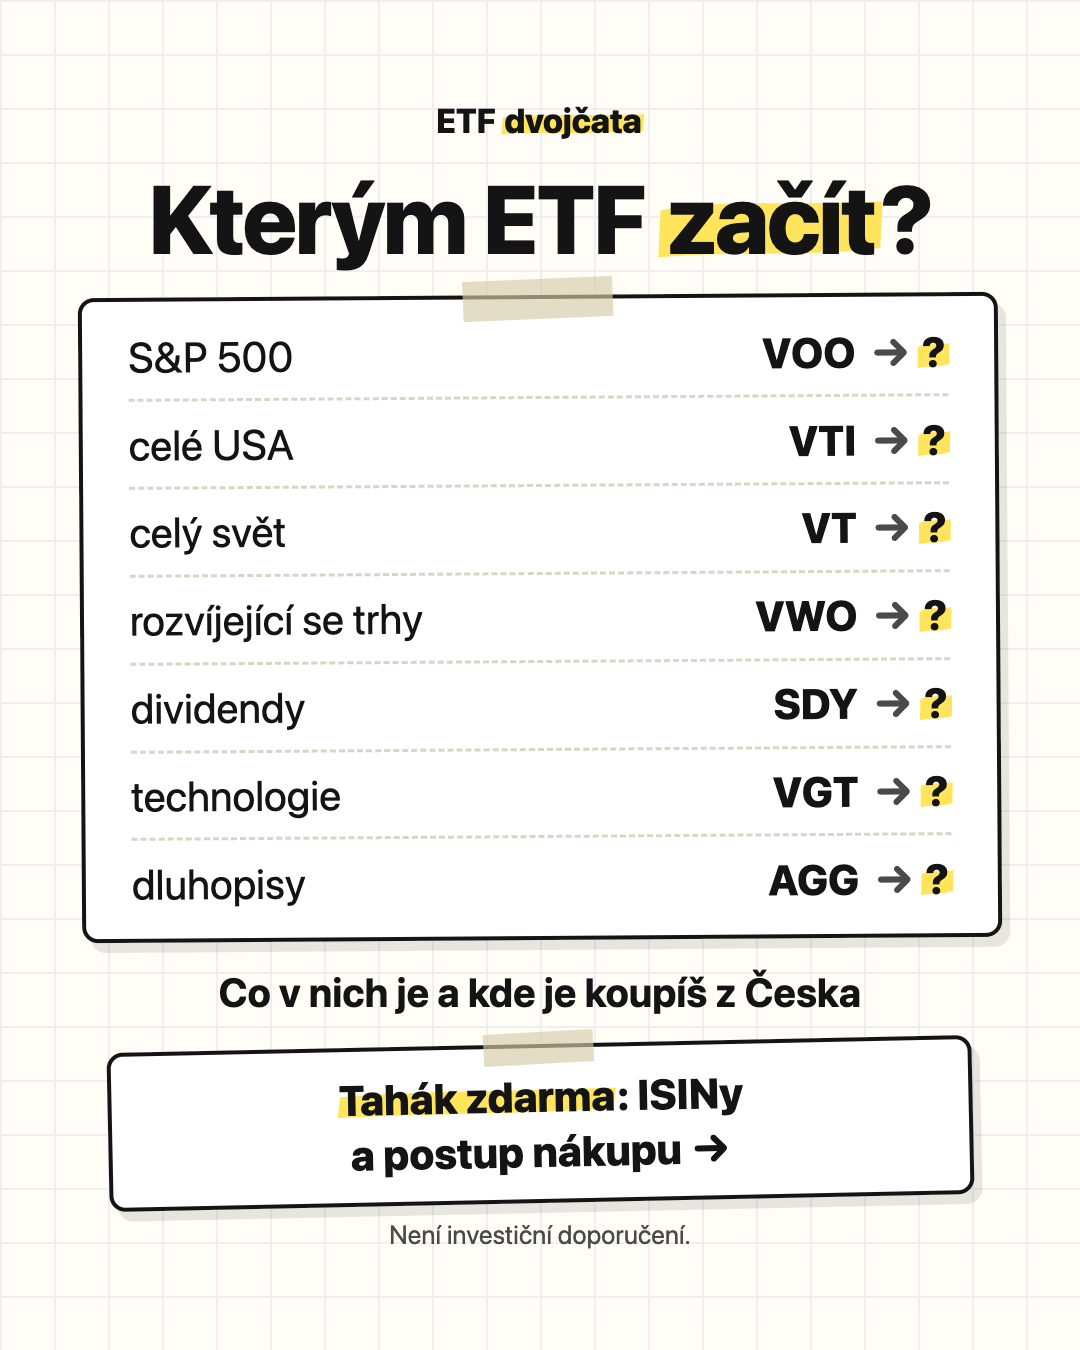
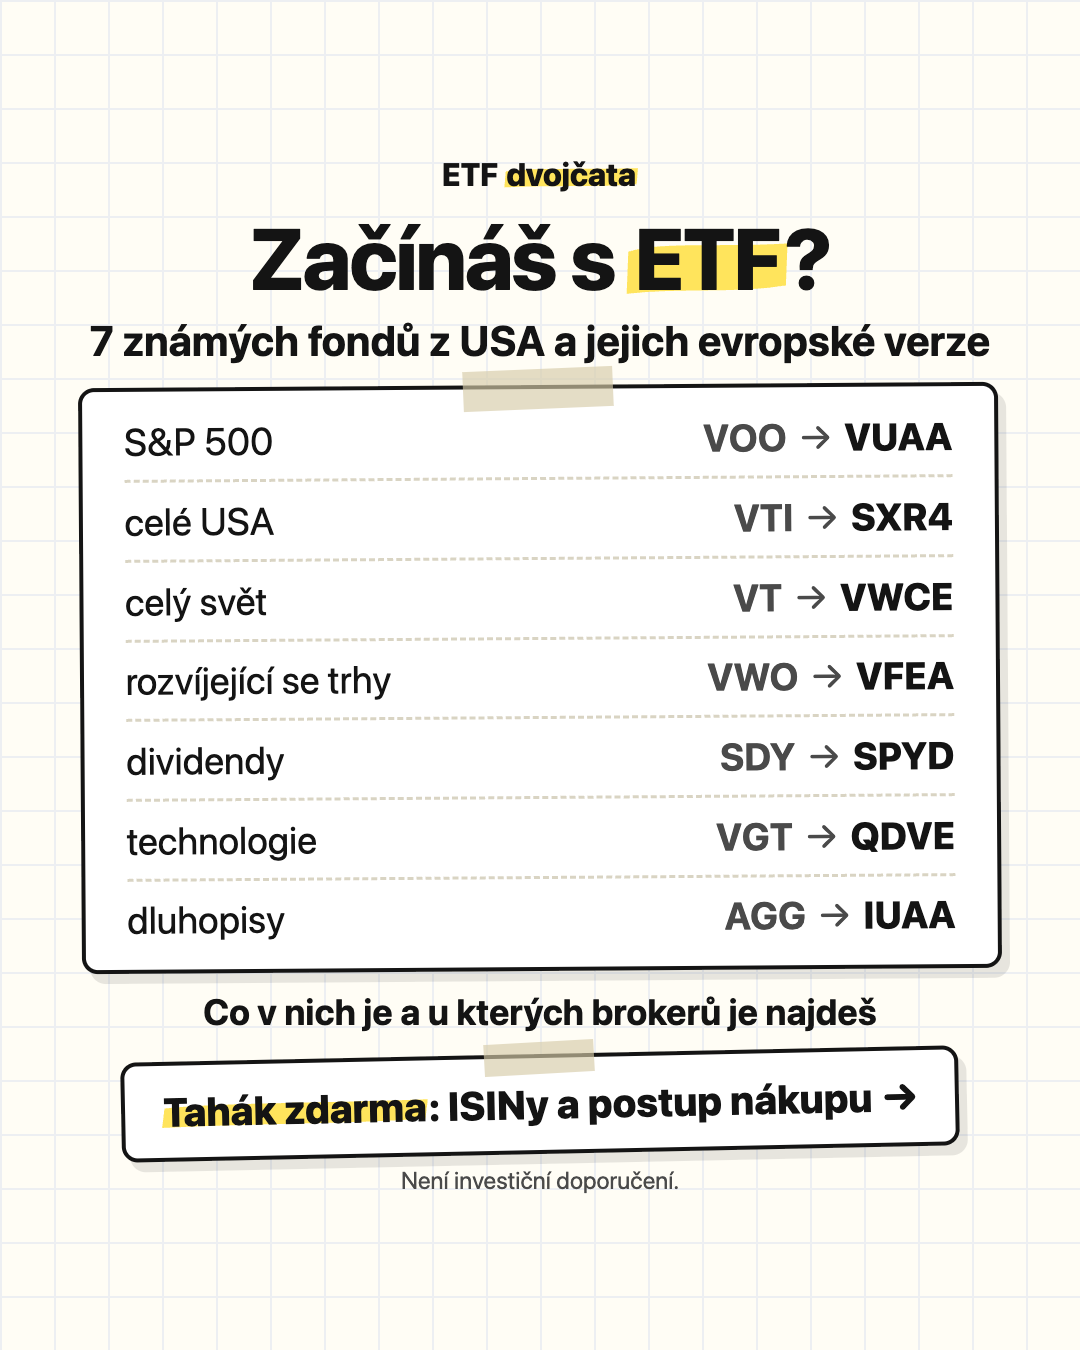
Reklama B a úvod ?v=zacatek: „Začínáš s ETF?“ s dvojčaty, bez „→ ?“
Reklama B schovávala dvojčata za „→ ?“, stránka je přitom ukáže
zdarma, takže slibovala něco jiného, než stránka dá. Teď:
- reklama: „Začínáš s ETF?“, „7 známých fondů z USA a jejich evropské
  verze“, seznam originál → dvojče (z dat), „Co v nich je a u kterých
  brokerů je najdeš“, nabídka taháku; primární text, nadpis a popis
  v reklamy/b-zacatek.md,
- úvod ?v=zacatek: „Začínáš s ETF?“ / „7 známých fondů z USA a jejich
  evropské verze. Klepni na lístek a uvidíš dvojče.“,
- „7 známých“, ne „7 nejznámějších“ (nejvyšší stupeň neumíme doložit).
Bezpečné zóny ověřené skriptem, CSP přepočítaná, testy a kontrola
živé stránky čekají nový nadpis.

diff --git a/public/index.html b/public/index.html
@@ -217,7 +217,7 @@ html{scroll-behavior:auto}
   <script>
   (function(){var v=new URLSearchParams(location.search).get('v');var T={
     dvojce:['Broker ti nenabídl VOO? <span class="fix">Není to chyba.</span>','Tady je jeho evropské dvojče a 6 dalších.',''],
-    zacatek:['Nevíš, kterým ETF <span class="fix">začít</span>?','7 známých fondů z USA a co v nich je.','Nic ti nedoporučujeme, jen ukazujeme, co existuje.']
+    zacatek:['Začínáš s <span class="fix">ETF</span>?','7 známých fondů z USA a jejich evropské verze. Klepni na lístek a uvidíš dvojče.','Nic ti nedoporučujeme, jen ukazujeme, co existuje.']
   };var t=Object.prototype.hasOwnProperty.call(T,v)?T[v]:null;if(!t)return;document.getElementById('uvod-h1').innerHTML=t[0];document.getElementById('uvod-text').textContent=t[1];var n=document.getElementById('uvod-pozn');if(t[2]){n.textContent=t[2];n.hidden=false}})();
   </script>
   <p class="hero-tahak" id="uvod-tahak"><span class="fix">Tahák zdarma v&nbsp;PDF</span>: ISINy a&nbsp;postup nákupu krok za krokem.</p>

diff --git a/reklamy/b-zacatek.md b/reklamy/b-zacatek.md
@@ -1,6 +1,6 @@
 # Reklama B „Začátek“
 
-**Úhel:** nejistota. Začátečník ví, že by měl začít investovat, ale neví, kterým ETF, a bojí se, že vybere špatně. Reklama slibuje přehled, ne doporučení.
+**Úhel:** nejistota. Začátečník ví, že by měl začít investovat, ale nezná fondy a bojí se, že vybere špatně. Reklama slibuje přehled známých fondů a jejich evropských verzí, ne doporučení.
 **Pro koho:** 25–40 let, s ETF teprve začínají, konkrétní fond zatím nehledají.
 **Proti reklamě A testuje jinou motivaci:** nejistotu místo zklamání z brokera.
 **Formát:** Meta, mobil, statický obrázek 4 : 5 a 9 : 16 (viz [README](README.md)).
@@ -9,53 +9,52 @@
 ## Texty
 
 - **Primární text:**
-  > Nevíš, kterým ETF začít? Tady je 7 známých fondů z USA: co v nich je, kolik stojí a jejich evropské verze, které si koupíš z Česka.
+  > Začínáš s ETF? Tady je 7 známých fondů z USA: co v nich je, kolik stojí a jejich evropské verze, které najdeš v nabídce brokerů v Česku.
   >
-  > Žádné doporučování, jen přehled s daty ověřenými u správců fondů.
+  > Žádné doporučování, jen přehled s daty ověřenými u správců fondů. Tahák s ISINy a postupem nákupu krok za krokem je zdarma.
 
   Zdroje: `[d: * › typ]`, `[d: * › ter]`, `[d: * › ucits_obdoba.kde_koupit]`, `[d: meta.overeno_dne]`.
-- **Nadpis:** 7 známých ETF na jednom místě
-- **Popis:** Co v nich je, kolik stojí, kde koupit
+- **Nadpis:** 7 známých ETF a jejich evropské verze
+- **Popis:** Co v nich je a u kterých brokerů je najdeš
 - **Tlačítko:** Zjistit víc
 
-**Dvě změny oproti původnímu znění:**
+**Změny oproti dřívějším zněním:**
 
 - „7 nejznámějších“ → „7 známých“: nejvyšší stupeň neumíme doložit, SDY je výrazně menší než ostatní (`[d: SDY › velikost_fondu]`).
-- „které z nich si koupíš z Česka“ → „jejich evropské verze, které si koupíš z Česka“: původní znění naznačuje, že některé americké originály koupit jde. Na stránce přitom ukazujeme právě jejich evropská dvojčata.
+- „Nevíš, kterým ETF začít?“ s dvojčaty schovanými za „→ ?“ → „Začínáš s ETF?“ s dvojčaty přímo v seznamu (11. 10. 2026, po nezávislé kontrole): stránka dvojčata ukáže zdarma, takže reklama, která je schovávala, slibovala něco jiného, než stránka dá. Otázka „kterým začít“ navíc sváděla k doporučení.
+- „které si koupíš z Česka“ → „které najdeš v nabídce brokerů v Česku“: ověřený máme jen veřejný seznam produktů brokera, ne nákup v konkrétním účtu.
 
 ## Obrázek
 
-Hotové obrázky: [b-zacatek-feed.png](b-zacatek-feed.png) (1080 × 1350) a [b-zacatek-stories.png](b-zacatek-stories.png) (1080 × 1920), generuje je [scripts/reklamy.mjs](../scripts/reklamy.mjs) z HTML ve stylu stránky. Seznam typů a tickerů bere ze stejných lístků jako stránka.
+Hotové obrázky: [b-zacatek-feed.png](b-zacatek-feed.png) (1080 × 1350) a [b-zacatek-stories.png](b-zacatek-stories.png) (1080 × 1920), generuje je [scripts/reklamy.mjs](../scripts/reklamy.mjs) z HTML ve stylu stránky. Seznam typů a tickerů bere ze stejných lístků jako stránka, dvojčata z `data/etf.json`.
 
 **Feed 4 : 5** (design „Tahák v sešitě“)
 
-- Čtverečkovaný papír, nahoře „Kterým ETF začít?“ jako nadpis stránky se žlutým fixem na „začít“. Původně „modrou propiskou“; modrá ze vzhledu stránky vypadla (`design.md`), tak ani reklama ji nemá.
-- Pod tím úhledný seznam 7 typů s tickery:
-  - S&P 500 · VOO
-  - celé USA · VTI
-  - celý svět · VT
-  - rozvíjející se trhy · VWO
-  - dividendy · SDY
-  - technologie · VGT
-  - dluhopisy · AGG
-
-  `[d: * › typ]`
-- U každého tickeru „→ ?“ (otazník se žlutým fixem): dvojčata reklama záměrně neukazuje, odpověď je v taháku a na stránce.
+- Nahoře „Začínáš s ETF?“ (žlutý fix na „ETF“) a pod tím „7 známých fondů z USA a jejich evropské verze“.
+- Lístek se seznamem 7 typů, originál → evropská verze (`[d: * › typ]`, `[d: * › ucits_obdoba.burza]`):
+  - S&P 500 · VOO → VUAA
+  - celé USA · VTI → SXR4
+  - celý svět · VT → VWCE
+  - rozvíjející se trhy · VWO → VFEA
+  - dividendy · SDY → SPYD
+  - technologie · VGT → QDVE
+  - dluhopisy · AGG → IUAA
 - Žádný řádek není zakroužkovaný ani označený jako „nejlepší“, nic nedoporučujeme.
-- Pod seznamem: „Co v nich je a kde je koupíš z Česka“.
-- **Nabídka dole** (lístek s páskou, „Tahák zdarma“ se žlutým fixem): „Tahák zdarma: ISINy a postup nákupu →“. Slibuje jen to, co PDF přidává navíc ke stránce (dvojčata stránka ukáže zdarma), stejně jako výzva na stránce („Chci tahák s postupem nákupu“, „PDF hned a zdarma“).
+- Pod seznamem: „Co v nich je a u kterých brokerů je najdeš“.
+- **Nabídka dole** (lístek s páskou, „Tahák zdarma“ se žlutým fixem): „Tahák zdarma: ISINy a postup nákupu →“. Slibuje jen to, co PDF přidává ke stránce.
 - **Pod ní nenápadně:** „Není investiční doporučení.“
 
-**Stories a Reels 9 : 16:** stejný obsah, větší písmo, rozložený do celé bezpečné výšky (nabídka dole nad zónou ovládání), text je mimo horních 270 px, dolních 450 px a 65 px po stranách (ovládání Instagramu a Facebooku; skript to kontroluje). Oficiální zóny Meta jsem neověřil, jen z návodů třetích stran, které se rozcházejí (dole 250–670 px), proto před spuštěním zkontrolovat v náhledu Ads Manageru.
+**Stories a Reels 9 : 16:** stejný obsah, rozložený do celé bezpečné výšky (nabídka dole nad zónou ovládání), text je mimo horních 270 px, dolních 450 px a 65 px po stranách (ovládání Instagramu a Facebooku; skript to kontroluje). Oficiální zóny Meta jsem neověřil, jen z návodů třetích stran, které se rozcházejí (dole 250–670 px), proto před spuštěním zkontrolovat v náhledu Ads Manageru.
 
 ## Navazující úvod stránky
 
-- **H1:** Nevíš, kterým ETF začít?
-- **Podnadpis:** 7 známých fondů z USA, co v nich je, kolik stojí a evropské verze, které si koupíš z Česka.
+- **H1:** Začínáš s ETF? (fix na „ETF“)
+- **Podnadpis:** 7 známých fondů z USA a jejich evropské verze. Klepni na lístek a uvidíš dvojče.
 - Drobně pod tím: „Nic ti nedoporučujeme, jen ukazujeme, co existuje.“
+- Pod tím u všech verzí: „Tahák zdarma v PDF: ISINy a postup nákupu krok za krokem.“
 - Plné znění je v [texty.md](../texty.md), sekce 1, verze B.
 
 ## Pozor
 
-- **Slib „kterým začít“ svádí k doporučení.** Stránka ani tahák nesmí říkat „začni tímhle“. Odpovídáme přehledem, ne radou. Na tohle by se měl podívat i právník spolu s ostatními texty.
+- **Stránka ani tahák nesmí říkat „začni tímhle“.** Odpovídáme přehledem, ne radou. Na texty by se měl podívat i právník.
 - **Lidé z reklamy B tickery neznají.** Proto mají tlačítka výběru u tickeru i popis („VOO · S&P 500“).

diff --git a/README.md b/README.md
@@ -35,7 +35,7 @@ Exporty konverzací s AI jsou v [ai-log/](ai-log/), reklamy v [reklamy/](reklamy
 
 - Vědí, co je ETF, a mají konkrétní problém: fond, o kterém slyšeli, u brokera nenajdou. Stránka jim ten problém vyřeší jedním klepnutím, takže hodnotu vidí okamžitě.
 - Jsou blízko k akci. Nepotřebují vysvětlovat, proč investovat, jen co koupit a jak.
-- Začátečníky, kteří nevědí, kterým ETF začít, oslovuje reklama B. Testujeme tak druhou motivaci: nejistotu místo zklamání z brokera.
+- Začátečníky, kteří fondy teprve poznávají, oslovuje reklama B. Testujeme tak druhou motivaci: nejistotu místo zklamání z brokera.
 
 **Stavíme na ověřeném faktu:** americká ETF ti broker v Česku často nenabídne, evropská obdoba ano. Například u Trading 212 je pro evropské klienty vyloučeno 1 137 z 1 151 amerických ETF (viz [data/README.md](data/README.md)). Tuhle informaci návštěvník jinde snadno nenajde a je to hlavní důvod, proč na stránce zůstat.
 
@@ -76,19 +76,19 @@ Texty všech částí jsou v [texty.md](texty.md).
 
 ## Dvě verze reklamy
 
-Obě pro Meta (Facebook a Instagram) na mobilu: statický obrázek 4 : 5 do feedu a 9 : 16 do Stories a Reels, tlačítko „Zjistit víc“. Texty jsou v [reklamy/](reklamy/README.md). Obrázky generuje [scripts/reklamy.mjs](scripts/reklamy.mjs) z HTML ve stylu stránky (sešit, fix, lístky), takže jdou upravit a přegenerovat. Každá má nahoře hook z primárního textu, dole nabídku „Tahák zdarma: všech 7 dvojčat v PDF →“ (stejný slib jako výzva na stránce) a drobně „Není investiční doporučení.“ A ukazuje dvojče VOO, B dvojčata záměrně neukazuje („→ ?“ u tickerů), odpověď je v taháku. U Stories a Reels je text mimo horních 270 px a dolních 450 px, kde je ovládání aplikace.
+Obě pro Meta (Facebook a Instagram) na mobilu: statický obrázek 4 : 5 do feedu a 9 : 16 do Stories a Reels, tlačítko „Zjistit víc“. Texty jsou v [reklamy/](reklamy/README.md). Obrázky generuje [scripts/reklamy.mjs](scripts/reklamy.mjs) z HTML ve stylu stránky (sešit, fix, lístky), takže jdou upravit a přegenerovat. Každá má nahoře hook z primárního textu, dole nabídku „Tahák zdarma: všech 7 dvojčat v PDF →“ (stejný slib jako výzva na stránce) a drobně „Není investiční doporučení.“ A ukazuje dvojče VOO, B všech 7 fondů s jejich evropskými verzemi, stejně jako stránka zdarma. U Stories a Reels je text mimo horních 270 px a dolních 450 px, kde je ovládání aplikace.
 
 | | Feed 1080 × 1350 | Stories a Reels 1080 × 1920 |
 |---|---|---|
 | **A „Dvojče“** | <img src="reklamy/a-dvojce-feed.png" width="240" alt="Reklama A do feedu: Broker ti nenabídl VOO? Není to chyba. VOO přeškrtnuté, šipka, VUAA v kroužku, nabídka taháku zdarma"> | <img src="reklamy/a-dvojce-stories.png" width="190" alt="Reklama A do Stories"> |
-| **B „Začátek“** | <img src="reklamy/b-zacatek-feed.png" width="240" alt="Reklama B do feedu: Kterým ETF začít? Seznam 7 typů ETF s tickery a otazníkem, nabídka taháku zdarma"> | <img src="reklamy/b-zacatek-stories.png" width="190" alt="Reklama B do Stories"> |
+| **B „Začátek“** | <img src="reklamy/b-zacatek-feed.png" width="240" alt="Reklama B do feedu: Začínáš s ETF? 7 známých fondů z USA a jejich evropské verze, nabídka taháku zdarma"> | <img src="reklamy/b-zacatek-stories.png" width="190" alt="Reklama B do Stories"> |
 
 | | A „Dvojče“ ([a-dvojce.md](reklamy/a-dvojce.md)) | B „Začátek“ ([b-zacatek.md](reklamy/b-zacatek.md)) |
 |---|---|---|
-| Úhel | zklamání: broker nenabízí VOO, o kterém slyšeli | nejistota: nevědí, kterým ETF začít |
-| Primární text začíná | „Broker ti nenabídl VOO? Není to chyba.“ | „Nevíš, kterým ETF začít?“ |
+| Úhel | zklamání: broker nenabízí VOO, o kterém slyšeli | nejistota: fondy teprve poznávají |
+| Primární text začíná | „Broker ti nenabídl VOO? Není to chyba.“ | „Začínáš s ETF? Tady je 7 známých fondů z USA…“ |
 | Obrázek | VOO → VUAA, „evropské dvojče · koupíš z Česka“ | sešit se 7 typy ETF a tickery, nic nezakroužkované |
-| Nadpis první obrazovky | Broker ti nenabídl VOO? Není to chyba. | Nevíš, kterým ETF začít? |
+| Nadpis první obrazovky | Broker ti nenabídl VOO? Není to chyba. | Začínáš s ETF? |
 | Pro koho | 25–40 let, o ETF už slyšeli a VOO možná zkoušeli koupit | 25–40 let, s ETF teprve začínají a konkrétní fond nehledají |
 | Kam vede | [etf-dvojcata-demo.vercel.app/?v=dvojce](https://etf-dvojcata-demo.vercel.app/?v=dvojce) | [etf-dvojcata-demo.vercel.app/?v=zacatek](https://etf-dvojcata-demo.vercel.app/?v=zacatek) |
 | Co od ní čekáme | Lidé přijdou s konkrétním problémem a hned otočí VOO. Čekám vyšší podíl otočení i odeslání než u B, protože slib reklamy vyřeší první lístek. | Lidé si spíš projdou víc lístků, než se rozhodnou. Čekám nižší konverzi než u A (nehledají konkrétní fond), ale možná víc otočených lístků na návštěvu. |

diff --git a/texty.md b/texty.md
@@ -53,9 +53,10 @@ Nadpis a podnadpis se mění podle parametru v URL (viz `reklamy/README.md`). Zb
 
 ### Verze B „Začátek“ (`?v=zacatek`)
 
-- **H1:** Nevíš, kterým ETF začít?
-- **Podnadpis (jedna věta):** 7 známých fondů z USA a co v nich je.
-- **Fixem přetažené v H1:** začít
+- **H1:** Začínáš s ETF?
+- **Podnadpis:** 7 známých fondů z USA a jejich evropské verze. Klepni na lístek a uvidíš dvojče.
+- **Fixem přetažené v H1:** ETF
+- Navazuje na reklamu B, která dvojčata ukazuje přímo (dřív „Nevíš, kterým ETF začít?“ s dvojčaty schovanými v reklamě; stránka je přitom ukáže zdarma).
   `[d: * › typ]` `[d: * › ter]` `[d: * › ucits_obdoba.kde_koupit]`
 - **Drobně pod podnadpisem:** Nic ti nedoporučujeme, jen ukazujeme, co existuje.
 - „7 známých“ místo „7 nejznámějších“: nejvyšší stupeň neumíme doložit (SDY je výrazně menší než ostatní, `[d: SDY › velikost_fondu]`).

diff --git a/reklamy/README.md b/reklamy/README.md
@@ -5,7 +5,7 @@ Dvě verze pro Meta (Facebook a Instagram), mobil. Testují dva úhly:
 | | A „Dvojče“ | B „Začátek“ |
 |---|---|---|
 | Soubor | [a-dvojce.md](a-dvojce.md) | [b-zacatek.md](b-zacatek.md) |
-| Háček | broker ti nenabídl VOO, není to chyba | nevíš, kterým ETF začít |
+| Háček | broker ti nenabídl VOO, není to chyba | začínáš s ETF? 7 známých fondů z USA a jejich evropské verze |
 | Motivace | zklamání z brokera | nejistota |
 | Pro koho | lidi, kteří už o ETF slyšeli a možná je zkoušeli koupit | začátečníci, kteří konkrétní fond zatím nehledají |
 | Parametr pro úvod stránky | `?v=dvojce` | `?v=zacatek` |
